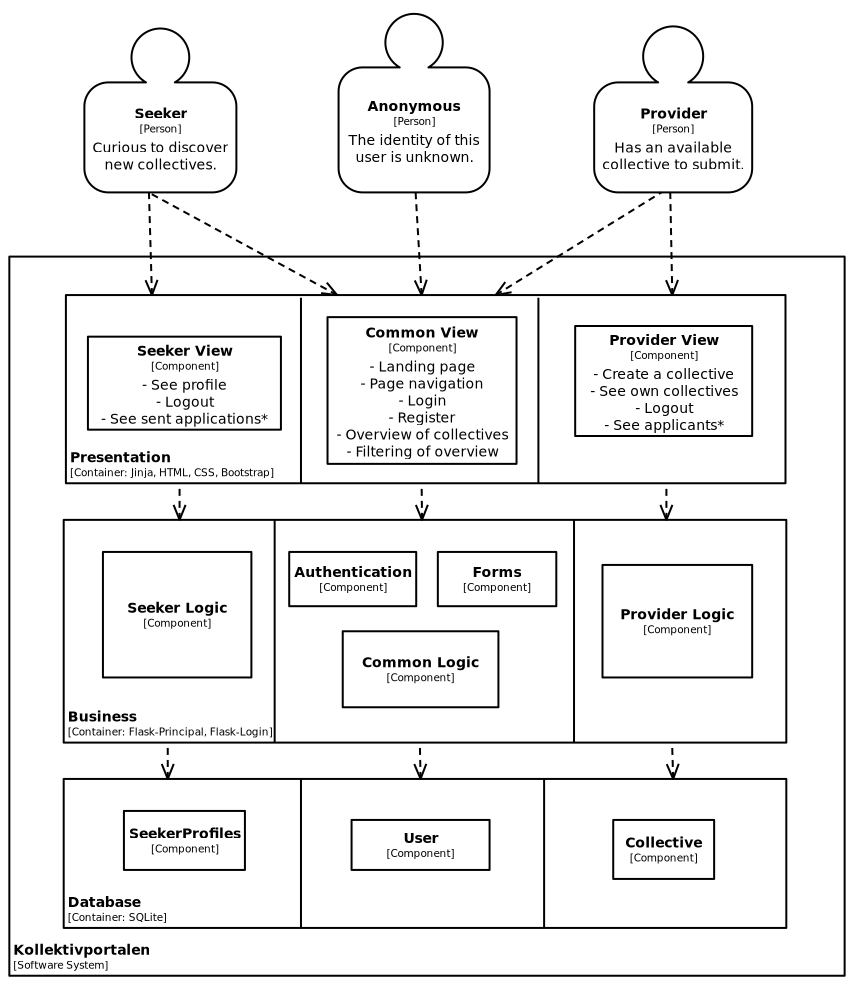
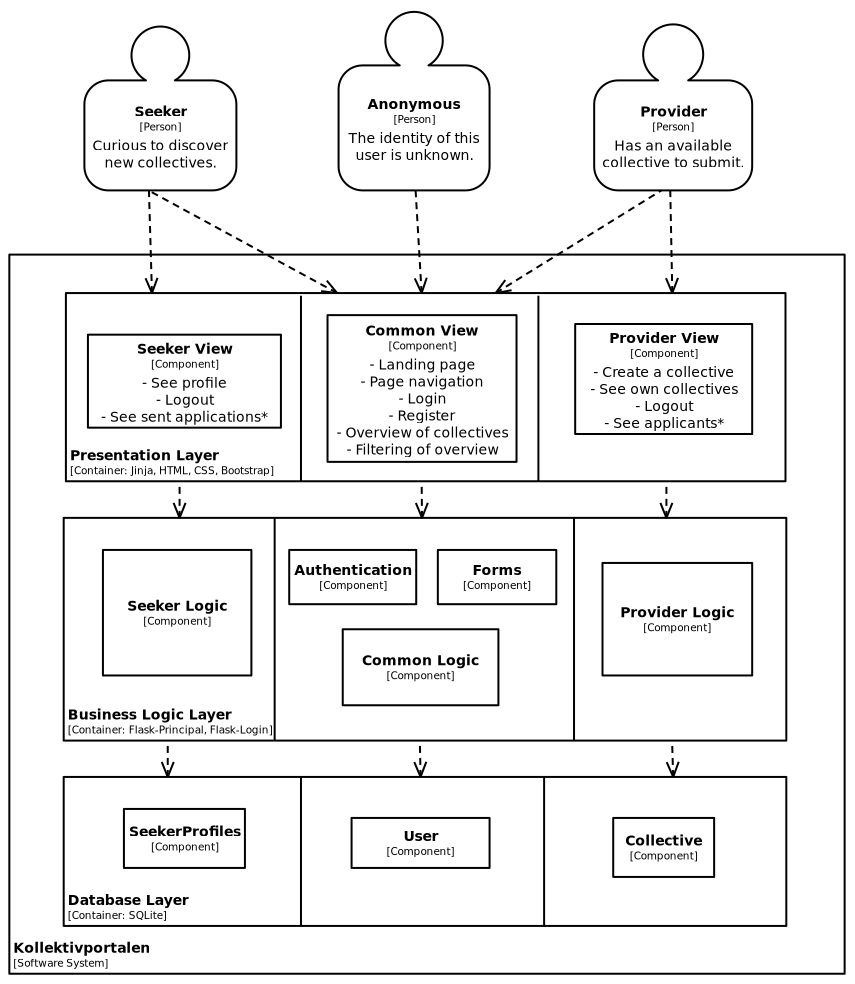
Rettet rapport

diff --git a/report/4_transition_and_reflection.tex b/report/4_transition_and_reflection.tex
@@ -8,10 +8,14 @@ This approach follows the suggestion by Sam Newman in his book "Building Microse
 \emph{''If you do a big-bang rewrite, the only thing you’re guaranteed of is a big
 bang''} \cite[102]{microservicebook}
 
-Our choices of decomposing the monolith into microservices focused on modelling around the business domain.
-That is, creating microservices around meaningful parts of the product and different business capabilities rather than technical layers.
-This creates clear service boundaries with components conforming to well-defined interfaces and 
-aligns the architecture with the organisation, encouraging empowered teams that can focus on delivering value within their specific domain.
+Our design choices when transitioning from monolith to microservices focused on achieving a more natural modelling of the business problem domain.
+Here, it is an advantage that we have already established an ubiquitous language and bounded context for the domain through our monolithic implementation.
+In Part 2, we artificially divided our functionality based on three kinds of logic related Seekers, Providers and Anonymous users, working via code in all three layers (Figure \ref{fig:container_monolith}).
+The big difference is, that we now use concepts related to the real world such as Collectives, Profiles and Pictures \ref{service_boundaries}.
+
+% That is, creating microservices around meaningful parts of the product and different business capabilities rather than technical layers.
+% This creates clear service boundaries with components conforming to well-defined interfaces and 
+% aligns the architecture with the organisation, encouraging empowered teams that can focus on delivering value within their specific domain.
 
 \subsection{Key design decisions in the transition}
 
@@ -31,8 +35,6 @@ authentication relates to two different concepts. One being security, another be
 This also becomes clear due to the fact that a Provider does not have the need for a personal profile, but still needs to authenticate.
 Separating handling of authentication and profile into two dedicated microservices also allows us to scale the two services independently.
 
-% TODO: Overvej at kald dette afsnit for "Challenges encountered", da jeg synes det ændrer karakter af det ovenstående? /Lasse
-
 Another challenge we encountered was how to always provide information about the user's authentication to our HTML templates, as the nav bar adapts based on this.
 Since this information is always needed we didn't want to pass it every time we rendered a template and instead searched for a similar
 solution to the \texttt{current\_user} object always accessible from templates in the monolith.
@@ -40,10 +42,9 @@ Our chosen design utilizes the decorator \texttt{@app.before\_request} to check 
 We use this to populate the \texttt{g.user} object with whether the user is authenticated and their role. By making this available as a variable named 
 \texttt{current\_user} through a context processor we were able to directly reuse the logic of our old templates.
 As we always call the authentication service before requests we also simplified the logic in our routes and \texttt{@login\_required} and \texttt{@role\_required} decorators.
-One downside to the chosen approach is that this function is called on every single request which includes static requests. 
+One downside to the chosen approach is that this function is called on every single non-static request. 
 However, by instantly returning from the function in case of static requests this overhead becomes negligible. 
 In the future the design might cause unnecessary overhead if our frontend implements multiple routes that don't render the nav bar.
-
 An additional issue to address was handling images, which can be broken into two subproblems:
 \begin{itemize}
     \item Uploading and storing images
@@ -57,20 +58,23 @@ We reduced the coupling by introducing the minimal wrapper service Pictures that
 \begin{figure}[h]
     \begin{subfigure}{0.5\textwidth}
         \centering
-        \includegraphics[scale=0.4]{img/1_common_coupling.png}
+        \includegraphics[scale=0.55]{img/1_common_coupling.png}
         \caption{Commonly coupled database}
         \label{fig:1_common_coupling}
     \end{subfigure}
     \begin{subfigure}{0.5\textwidth}
         \centering
-        \includegraphics[scale=0.4]{img/2_common_coupling.png}
+        \includegraphics[scale=0.55]{img/2_common_coupling.png}
         \caption{Wrapper service to erase common coupling}
         \label{fig:2_common_coupling}
     \end{subfigure}
 \caption{Common coupling}
 \label{fig:3}
 \end{figure}
+\newpage
+
 \begin{comment}
+
 C-E: korresponderende WRAP latex kode. Dette var der ikke plads til
 
 \begin{wrapfigure}{r}{0.25\textwidth}
@@ -90,7 +94,7 @@ due to the fact that images would have to be passed from the frontend to these m
 One way to eliminate this coupling is to let the frontend communicate directly with the pictures API, leading to a more loosely coupled architecture as seen on figure \ref{fig:2b_common_coupling}
 \begin{figure}[H]
     \centering
-    \includegraphics[scale=0.4]{img/2b_common_coupling.png}
+    \includegraphics[scale=0.6]{img/2b_common_coupling.png}
     \caption{New architecture with no pass-through coupling}
     \label{fig:2b_common_coupling}
 \end{figure}
@@ -102,7 +106,7 @@ This would again lead to pass-through coupling, and passing blob data between se
 \\  %Provide a little spacing between section and figure
 \begin{figure}[H]
     \centering
-    \includegraphics[scale=0.4]{img/3_pass_through_coupling.png}
+    \includegraphics[scale=0.6]{img/3_pass_through_coupling.png}
     \caption{Pass-through coupling from browser to Pictures Service}
     \label{fig:3_pass_through_coupling}
 \end{figure}
@@ -111,7 +115,7 @@ Publishing the pictures microservice would of course not be a sustainable soluti
 and in that case we would have to settle with the original solution.
 \begin{figure}[H]
     \centering
-    \includegraphics[scale=0.4]{img/4_pass_through_coupling.png}
+    \includegraphics[scale=0.6]{img/4_pass_through_coupling.png}
     \caption{Erased pass-through coupling}
     \label{fig:4_pass_through_coupling}
 \end{figure}
@@ -126,7 +130,6 @@ created on-demand when seekers first visit their profile page through
 a PUT request which creates or replaces the profile.
 This design choice prioritizes simplicity over immediate consistency
 as seekers exist without profiles until they choose to create one.
-
 We also considered eager profile creation, where a seeker's profile would be
 created during registration. This adds a level of consistency but requires distributed transaction to maintain consistency between the separate Auth and Profile databases.
 
@@ -145,7 +148,6 @@ to ensure that both services either commit or abort the transaction.
 This would prioritize consistency as all nodes commit or abort together,
 but sacrifices availability since participants must all be available and 
 wait until a decision is made.
-
 Another approach is to use the Saga pattern.
 That is, instead of using a distributed transaction, we maintain data consistency
 through a sequence of local transactions.
@@ -153,7 +155,7 @@ This could be implemented with a centralized Saga orchestrator.
 Firstly a user in the Auth service would be created. On success, the profile in the Profiles service is created. If this fails, we would either compensate 
 by deleting the user from Auth or repeat the request if we see user creation as the pivot.
 
-In our case lazy profile creation is the right choice as for profile creation the added complexity is not warranted. 
+In our case lazy profile creation is the right choice as for profile creation as the added complexity is not warranted. 
 
 
 
@@ -191,7 +193,7 @@ It does, however, introduce some complexity but ensures eventual consistency and
 \subsection{Conclusion}
 All of these design decisions led us to the chosen autonomous microservices. The design promotes openness, scalability and a high degree of distribution transparency 
 by making the microservices work together without users or applications having to know all the details.
-We strived to only have domain coupling which is a loose form of coupling in our system. 
+We strived to only have domain coupling, which is a loose form of coupling, in our system. 
 The frontend microservice has high centralisation of logic
 having to interact with several downstream microservices, and as such it would have to be replicated and scaled accordingly.
 The next steps of our product development would be the implementation of applications, and in turn

diff --git a/report/2_task-1.tex b/report/2_task-1.tex
@@ -30,25 +30,7 @@ The Common Logic represents the universally available functionality for all user
 All business logic is dependent on manipulating data from the database, which is represented by the outer arrow fron the total \verb|logic.py| container to the Database Layer. 
 
 Both the Seeker and the Provider Logic is dependent on the authentication of the current user and data about their session in order to be carried out. This dependency is represented via the thick line from the two components towards the \verb|auth.py| component.
-<<<<<<< HEAD
 This gives coupling in the form of a shared global context related to the session cycle of the current user. 
-The possibility of delegating the actual implementation of the authorization to Flask-Principal greatly reduces implementation complexity.
-=======
-This gives coupling in the form of a shared global context related to the session cycle of the current user. The logic is therefore somewhat temporally coupled with the authentication flow. 
-The possibility of delegating the actual implementation of the authorization to Flask-Principal greatly reduces complexity.
-\begin{comment}
-C-E:
-1. Jeg synes vi skal fjerne sidste sætning: "The possibility of delegating the actual implementation of the authorization to Flask-Principal greatly reduces complexity."
-Den står lidt alene synes jeg, og har ikke noget at gøre med koblingen fra Logic layeret og auth.py.
-Eller også misser jeg hvorfor at det har noget at gøre med det.
-
-2.
-Ved ikke om jeg ser "temporally" pointen helt for mig.
-Temporally coupling handler om, såvidt jeg forstår, at 2 services skal være aktive/"tændte" på samme tid for at kommunikere sammen.
-Det kan jeg vel godt se at authentication og logic er, men jeg tror kun man kan snakke om
-temporally coupling i kontekst af Distributed Systems. Her snakker vi slet ikke om 2 forskellige services men én monolit, og er derfor lidt skeptisk om man overhovedet kan snakke om temporally coupling her.
-\end{comment}
->>>>>>> 7f10393 (Figurer+Kommentarer til Part3+4)
 
 All modules and subcategories in the Business Logic Layer is dependent on \verb|forms.py| in order achieve their respective interaction with the user, 
 however, each form is independent from eachother, so we could also have stored each form alongside the relevant logic. It therefore maintains a pure data coupling.
@@ -74,7 +56,7 @@ Another disadvantage is, that almost any changes to the web service therefore re
 
 \begin{figure}[H]
     \makebox[\textwidth][c]{%
-        \includegraphics[width=1.2\linewidth]{img/zoom_in_business_v3.png}%
+        \includegraphics[width=1.1\linewidth]{img/zoom_in_business_v3.png}%
     }
     \caption{Code organisation inside of Business Layer}
     \label{fig:zoom_in_monolith}

diff --git a/report/3_task-2.tex b/report/3_task-2.tex
@@ -26,7 +26,7 @@ Microservices should be:
 
 %TODO: Bør vi nævne de forskellige endpoints de har?
 
-\subsection{Service boundaries and data management}
+\subsection{Service boundaries and data management} \label{service_boundaries}
 
 The refactored system consists of five independently deployable services, each with a distinct responsibility.
 A high-level overview of the different microservices and how they interact can be seen on figure X.
@@ -100,7 +100,7 @@ and then independently fetches embedded resources.
 
 \begin{figure}[H]
     \makebox[\textwidth][c]{%
-        \includegraphics[width=1.1\linewidth]{img/microservices.png}%
+        \includegraphics[width=1.2\linewidth]{img/microservices.png}%
     }
     \caption{High-level overview of our microservices architecture}
     \label{fig:microservices}
